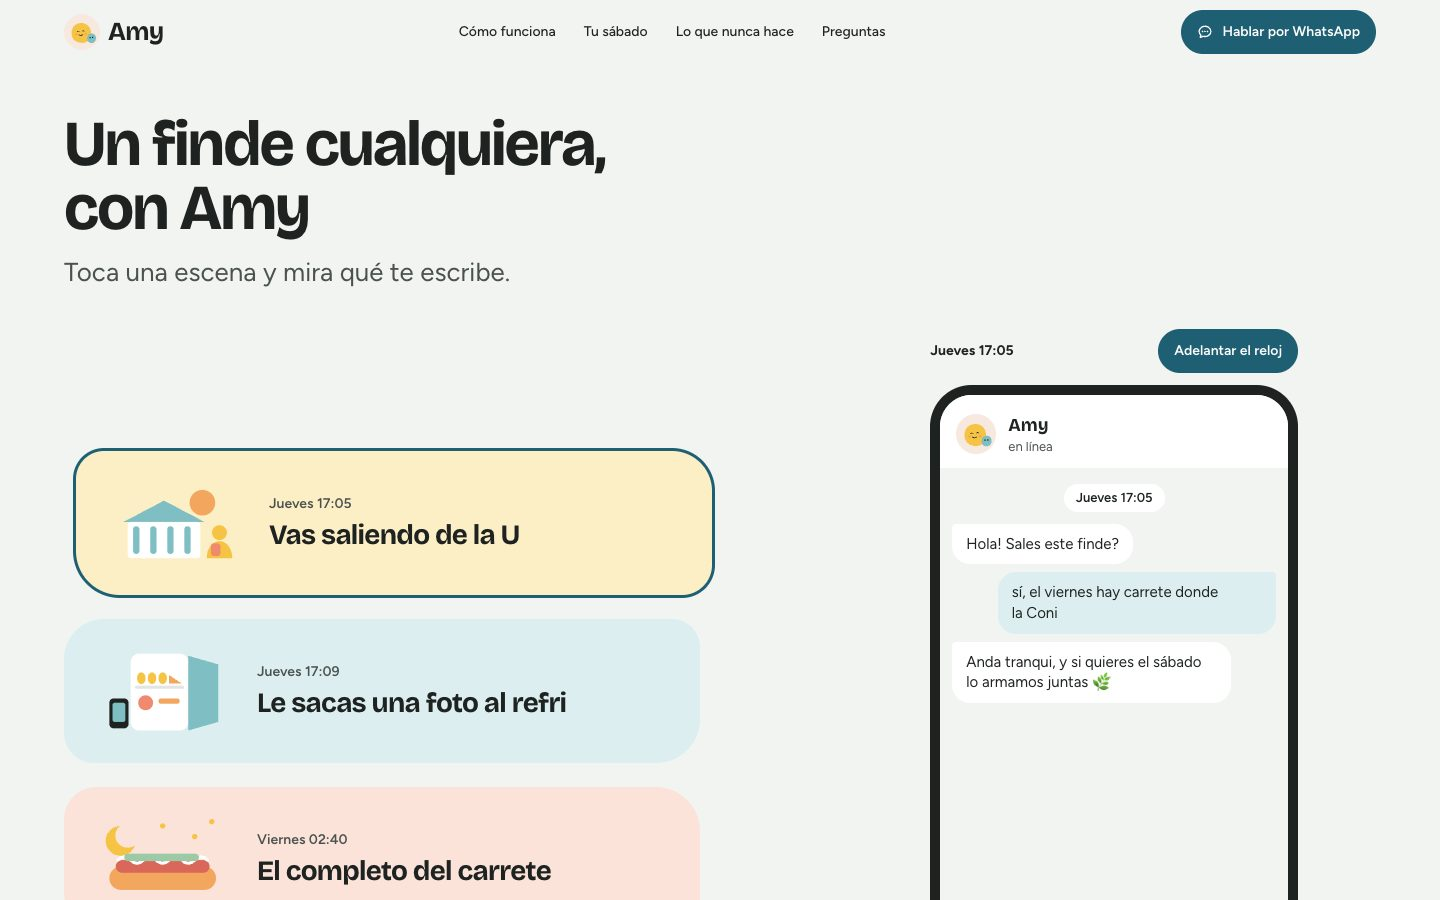
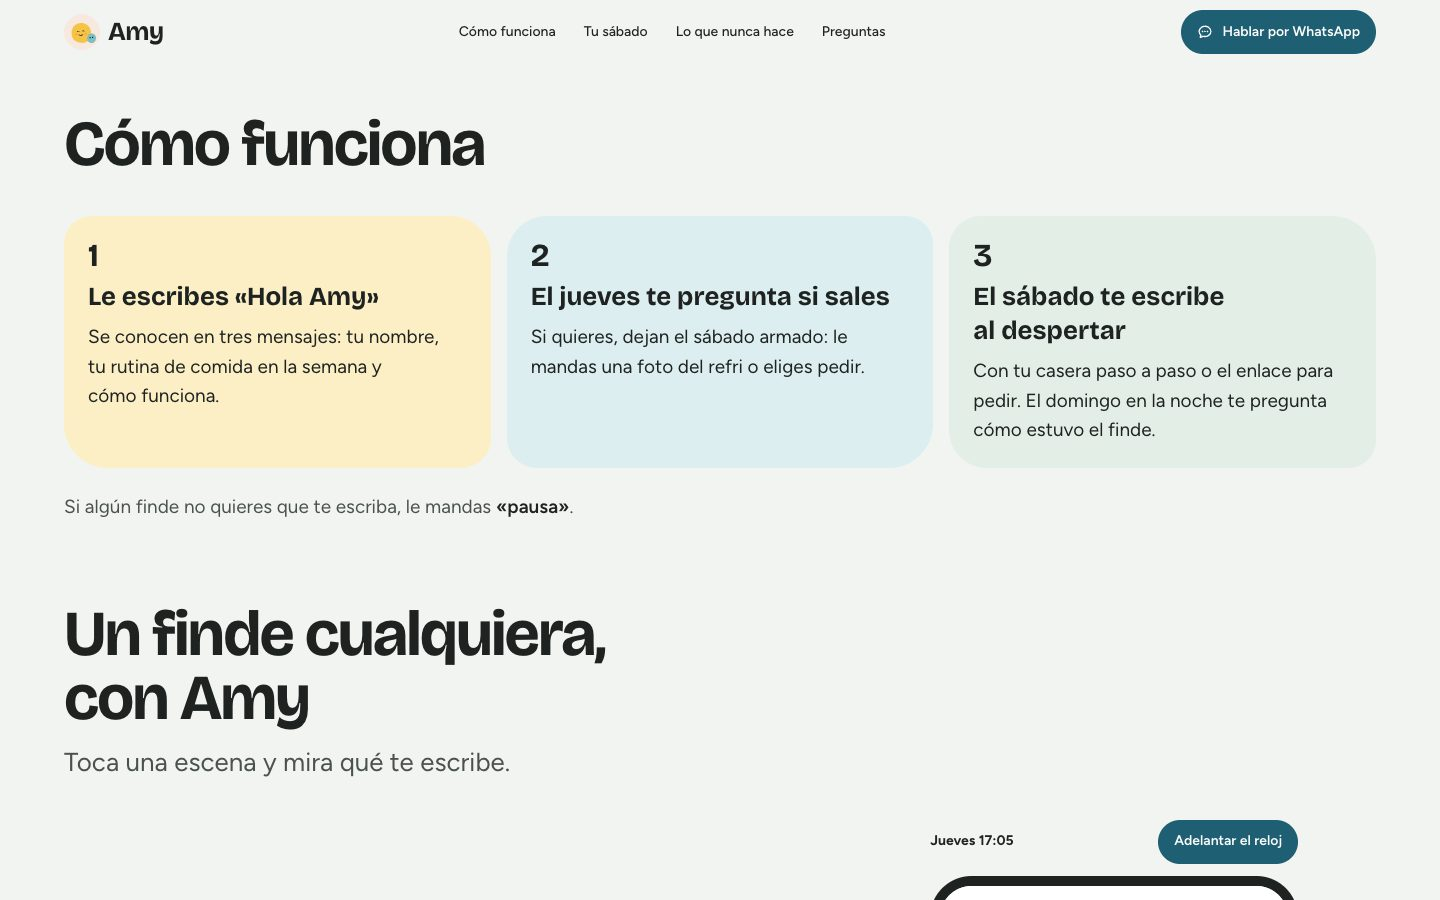
feat(landing): say exactly what Amy does today
Three-step how-it-works (Hola Amy and a three-message intro, Thursday
check-in, Saturday wake-up message plus Sunday check-in, and «pausa»).
Saturday section now shows the real choice: a 10-minute recipe from
your fridge that lands in your recipe book, or your craving via a
PedidosYa link. Drop price comparisons and the prices in the chat plan,
make Sunday's scene Amy asking how the weekend went, update the FAQ.

diff --git a/landing/src/components/TuSabado.tsx b/landing/src/components/TuSabado.tsx
@@ -1,133 +1,60 @@
-import { useState } from "react";
-import { ANTOJOS, ENVIO, OTRO_DELIVERY, RECETA, pesos } from "../lib/conversacion";
 import { useRevela } from "../lib/movimiento";
 import { AvatarAmi } from "./Avatar";
+import { DibujoEscena } from "./Escenas";
 import { Onda } from "./Onda";
 
-type Antojo = (typeof ANTOJOS)[number];
-type Linea = { turno: string; que: string; detalle: string; precio: number; antojo?: boolean };
-
-function Sabado({
-  titulo,
-  lineas,
-  destacado = false,
-  forma,
-}: {
-  titulo: string;
-  lineas: Linea[];
-  destacado?: boolean;
-  forma: string;
-}) {
-  const total = lineas.reduce((s, l) => s + l.precio, 0);
-  return (
-    <div className={`flex flex-col p-6 sm:p-8 ${forma} ${destacado ? "bg-superficie outline-[3px] outline-accion" : "bg-cielo"}`}>
-      <div className="flex items-center gap-3">
-        {destacado && <AvatarAmi className="size-10 shrink-0" />}
-        <h3 className="text-lead">{titulo}</h3>
-      </div>
-      <dl className="mt-6 flex-1 space-y-4">
-        {lineas.map((l) => (
-          <div key={l.turno} className={`rounded-[18px_24px_20px_26px] px-4 py-3 ${l.antojo ? "bg-amarillo" : destacado ? "bg-menta" : "bg-rosado"}`}>
-            <dt className="text-chico font-semibold text-tinta-suave">{l.turno}</dt>
-            <dd className="mt-0.5 flex items-baseline justify-between gap-4">
-              <span>
-                <span className="block font-semibold">{l.que}</span>
-                <span className="block text-chico">{l.detalle}</span>
-              </span>
-              <span className="font-bold tabular-nums">{pesos(l.precio)}</span>
-            </dd>
-          </div>
-        ))}
-      </dl>
-      <p className="mt-6 flex items-baseline justify-between gap-4 text-lead font-bold">
-        <span>Total</span>
-        <span className="tabular-nums">{pesos(total)}</span>
-      </p>
-    </div>
-  );
-}
+const OPCIONES = [
+  {
+    titulo: "Algo rico de tu refri",
+    texto: "Una casera de 10 minutos con lo que ya tienes. Amy te guía paso a paso y la receta queda en tu recetario, que solo crece.",
+    escena: "refri" as const,
+    fondo: "bg-menta",
+    forma: "rounded-[36px_48px_40px_52px]",
+  },
+  {
+    titulo: "Tu antojo por delivery",
+    texto: "Amy te manda el enlace directo a un local en PedidosYa. Sin culpa: tu antojo también es parte del plan.",
+    escena: "amigas" as const,
+    fondo: "bg-amarillo",
+    forma: "rounded-[48px_36px_52px_40px]",
+  },
+];
 
 /**
- * La misma comparación que hace Amy el jueves: el sábado de siempre (dos
- * delivery) contra el sábado con Amy (el mismo antojo y una casera con lo que
- * ya tienes). El antojo no se toca; lo que cambia es el almuerzo con caña.
+ * Lo que queda decidido el jueves para el sábado: una de dos, las dos valen.
+ * Y si el plan cambia, no pasa nada.
  */
 export function TuSabado() {
   const ref = useRevela<HTMLElement>();
-  const [antojoId, setAntojoId] = useState<Antojo["id"]>("sushi");
-  const antojo = ANTOJOS.find((a) => a.id === antojoId)!;
-  const faltan = RECETA.faltan.reduce((s, f) => s + f.precio, 0);
-
-  const comidaAntojo: Linea = {
-    turno: "Comida",
-    que: `Tu antojo: ${antojo.nombre.toLowerCase()}`,
-    detalle: `De ${antojo.local}, con envío`,
-    precio: antojo.precio + ENVIO,
-    antojo: true,
-  };
-  const deSiempre: Linea[] = [
-    { turno: "Almuerzo", que: "Delivery con caña", detalle: "Lo primero que aparece en la app", precio: OTRO_DELIVERY + ENVIO },
-    comidaAntojo,
-  ];
-  const conAmi: Linea[] = [
-    {
-      turno: "Almuerzo",
-      que: RECETA.nombre,
-      detalle: `${RECETA.minutos} min, con lo que ya tienes; falta ${RECETA.faltan.map((f) => f.nombre.toLowerCase()).join(" y ")}`,
-      precio: faltan,
-    },
-    comidaAntojo,
-  ];
-  const quedan = OTRO_DELIVERY + ENVIO - faltan;
-
   return (
-    <section ref={ref} id="tu-sabado" className="grano bg-menta" aria-labelledby="titulo-sabado">
+    <section ref={ref} id="tu-sabado" className="grano bg-celeste" aria-labelledby="titulo-sabado">
       <Onda volteada className="text-cielo" />
       <div className="envoltura py-20 md:py-28">
-        <div className="flex flex-col gap-8 lg:flex-row lg:items-end lg:justify-between">
-          <div>
-            <h2 id="titulo-sabado" className="revela max-w-[18ch] text-titulo">
-              El mismo sábado, sin culpa y con plata
-            </h2>
-            <p className="revela mt-5 max-w-[44ch] text-lead" style={{ ["--i" as string]: 1 }}>
-              Tu antojo no se toca. Solo cambia el almuerzo con caña.
-            </p>
-          </div>
-          <fieldset className="revela" style={{ ["--i" as string]: 2 }}>
-            <legend className="font-semibold">¿Qué se te antoja?</legend>
-            <div className="mt-3 flex flex-wrap gap-2">
-              {ANTOJOS.map((a) => (
-                <label key={a.id} className="cursor-pointer">
-                  <input
-                    type="radio"
-                    name="antojo"
-                    value={a.id}
-                    checked={antojoId === a.id}
-                    onChange={() => setAntojoId(a.id)}
-                    className="peer sr-only"
-                  />
-                  <span className="inline-flex min-h-11 items-center rounded-full bg-superficie px-5 font-medium transition-[transform,background-color,color] duration-200 ease-(--ease-salto) peer-checked:bg-tinta peer-checked:text-cielo peer-focus-visible:outline-2 peer-focus-visible:outline-offset-3 peer-focus-visible:outline-accion active:scale-95">
-                    {a.nombre}
-                  </span>
-                </label>
-              ))}
-            </div>
-          </fieldset>
-        </div>
-
-        <div className="mt-12 grid gap-5 md:grid-cols-2" aria-live="polite">
-          <div className="revela" style={{ ["--i" as string]: 1 }}>
-            <Sabado titulo="Un sábado de siempre" lineas={deSiempre} forma="rounded-[36px_48px_40px_52px]" />
-          </div>
-          <div className="revela" style={{ ["--i" as string]: 2 }}>
-            <Sabado titulo="Un sábado con Amy" lineas={conAmi} destacado forma="rounded-[48px_36px_52px_40px]" />
-          </div>
-        </div>
-
-        <p className="revela mt-10 text-center font-titulo text-titulo font-bold text-balance" style={{ ["--i" as string]: 3 }}>
-          Te quedan {pesos(quedan)} para la semana.
+        <h2 id="titulo-sabado" className="revela max-w-[18ch] text-titulo">
+          El sábado, tú eliges
+        </h2>
+        <p className="revela mt-5 max-w-[46ch] text-lead" style={{ ["--i" as string]: 1 }}>
+          Lo dejan decidido el jueves, cuando estás tranquila. El sábado con caña ya no tienes que pensar.
         </p>
-        <p className="mt-3 text-center text-chico text-tinta-suave">Precios de ejemplo.</p>
+
+        <ul className="mt-12 grid gap-5 md:grid-cols-2">
+          {OPCIONES.map((o, i) => (
+            <li key={o.titulo} className={`revela flex flex-col gap-4 bg-superficie p-6 sm:p-8 ${o.forma}`} style={{ ["--i" as string]: i + 1 }}>
+              <div className={`w-fit rounded-[24px_30px_26px_32px] px-4 py-3 ${o.fondo}`}>
+                <DibujoEscena escena={o.escena} className="h-20 w-auto" />
+              </div>
+              <h3 className="text-lead">{o.titulo}</h3>
+              <p className="max-w-[40ch]">{o.texto}</p>
+            </li>
+          ))}
+        </ul>
+
+        <div className="revela mt-10 flex items-end gap-3 md:justify-center" style={{ ["--i" as string]: 3 }}>
+          <AvatarAmi className="size-14 shrink-0" />
+          <p className="rounded-[4px_22px_22px_22px] bg-superficie px-5 py-3 text-lead">
+            Y si el plan cambia, no pasa nada. El finde también es parte de tu semana 🫶
+          </p>
+        </div>
       </div>
       <Onda className="text-rosado" />
     </section>

diff --git a/landing/src/components/ComoFunciona.tsx b/landing/src/components/ComoFunciona.tsx
@@ -1,4 +1,5 @@
 import { useEffect, useRef, useState } from "react";
+import { NOMBRE } from "../config";
 import { MOMENTOS } from "../lib/conversacion";
 import { centrar, hayMovimiento } from "../lib/movimiento";
 import { DibujoEscena } from "./Escenas";
@@ -18,8 +19,23 @@ const FORMAS = [
   "rounded-[32px_44px_28px_38px]",
 ];
 
+const PASOS = [
+  {
+    titulo: `Le escribes «Hola ${NOMBRE}»`,
+    texto: "Se conocen en tres mensajes: tu nombre, tu rutina de comida en la semana y cómo funciona.",
+  },
+  {
+    titulo: "El jueves te pregunta si sales",
+    texto: "Si quieres, dejan el sábado armado: le mandas una foto del refri o eliges pedir.",
+  },
+  {
+    titulo: "El sábado te escribe al despertar",
+    texto: "Con tu casera paso a paso o el enlace para pedir. El domingo en la noche te pregunta cómo estuvo el finde.",
+  },
+];
+
 /**
- * Un finde cualquiera, en escenas. Cada escena es un botón que pone el chat en
+ * Tres pasos y, debajo, un finde cualquiera en escenas. Cada escena es un botón que pone el chat en
  * ese momento. En escritorio el teléfono queda fijo y la escena del centro de
  * la pantalla manda; en celular las escenas son una fila que se desliza.
  */
@@ -64,8 +80,24 @@ export function ComoFunciona() {
     <section id="como-funciona" className="relative" aria-labelledby="titulo-como">
       <div className="envoltura pt-20 md:pt-28">
         <h2 id="titulo-como" className="max-w-[16ch] text-titulo">
-          Un finde cualquiera, con Amy
+          Cómo funciona
         </h2>
+        <ol className="mt-10 grid gap-4 md:grid-cols-3">
+          {PASOS.map((p, i) => (
+            <li key={p.titulo} className={`flex flex-col gap-2 p-6 ${["bg-amarillo", "bg-celeste", "bg-menta"][i]} ${FORMAS[i]}`}>
+              <span className="font-titulo text-[2rem] leading-none font-bold" aria-hidden="true">
+                {i + 1}
+              </span>
+              <h3 className="text-lead">{p.titulo}</h3>
+              <p>{p.texto}</p>
+            </li>
+          ))}
+        </ol>
+        <p className="mt-6 text-tinta-suave">
+          Si algún finde no quieres que te escriba, le mandas <strong className="font-semibold text-tinta">«pausa»</strong>.
+        </p>
+
+        <h3 className="mt-20 max-w-[18ch] text-titulo">Un finde cualquiera, con {NOMBRE}</h3>
         <p className="mt-4 max-w-[40ch] text-lead text-tinta-suave">Toca una escena y mira qué te escribe.</p>
       </div>
 

diff --git a/landing/src/components/Telefono.tsx b/landing/src/components/Telefono.tsx
@@ -2,10 +2,7 @@ import { LazyMotion, MotionConfig, domAnimation, m as motion } from "motion/reac
 import { useEffect, useRef } from "react";
 import { NOMBRE } from "../config";
 import { AvatarAmi } from "./Avatar";
-import { ANTOJOS, ENVIO, RECETA, pesos, type Mensaje, type Momento } from "../lib/conversacion";
-
-const pizza = ANTOJOS[0];
-const faltan = RECETA.faltan.reduce((s, f) => s + f.precio, 0);
+import { RECETA, type Mensaje, type Momento } from "../lib/conversacion";
 
 function Refri() {
   return (
@@ -34,18 +31,12 @@ function Plan() {
     <div className="space-y-2">
       <p className="font-titulo font-bold">Tu sábado, listo</p>
       <div className="rounded-[14px_18px_14px_18px] bg-menta px-3 py-2">
-        <p className="text-[0.8125rem] font-semibold">Almuerzo, casero</p>
+        <p className="text-[0.8125rem] font-semibold">Algo rico de tu refri</p>
         <p>
-          {RECETA.nombre}, {RECETA.minutos} min · te falta tomate y cilantro, {pesos(faltan)}
+          {RECETA.nombre}, {RECETA.minutos} min, con lo que ya tienes
         </p>
       </div>
-      <div className="rounded-[18px_14px_18px_14px] bg-amarillo px-3 py-2">
-        <p className="text-[0.8125rem] font-semibold">Comida, tu antojo</p>
-        <p>
-          {pizza.nombre} de {pizza.local}, {pesos(pizza.precio + ENVIO)}
-        </p>
-      </div>
-      <p className="text-[0.8125rem] text-tinta-suave">Precios de ejemplo.</p>
+      <p className="text-[0.8125rem] text-tinta-suave">Si el sábado prefieres pedir, te mando el enlace</p>
     </div>
   );
 }

diff --git a/landing/src/lib/conversacion.ts b/landing/src/lib/conversacion.ts
@@ -1,6 +1,6 @@
 /**
- * La conversación de ejemplo del mockup. Todo es inventado: el refri, los
- * locales y los precios. Nunca calorías ni nada sobre el cuerpo.
+ * La conversación de ejemplo del mockup, fiel a lo que Amy hace hoy. Todo es
+ * inventado: el refri y los locales. Nunca calorías, precios ni nada sobre el cuerpo.
  */
 
 export type Mensaje =
@@ -58,7 +58,7 @@ export const MOMENTOS: Momento[] = [
     titulo: "El completo del carrete",
     escena: "carrete",
     fondo: "rosado",
-    mensajes: [{ de: "nota", texto: "Amy no te escribe de noche. Es tu carrete." }],
+    mensajes: [{ de: "nota", texto: "El viernes Amy no te escribe. Es tu carrete." }],
   },
   {
     id: "sabado",
@@ -96,12 +96,13 @@ export const MOMENTOS: Momento[] = [
     id: "domingo",
     dia: "Domingo",
     hora: "20:00",
-    titulo: "La culpa del domingo",
+    titulo: "Amy pregunta cómo estuvo el finde",
     escena: "domingo",
     fondo: "celeste",
     mensajes: [
-      { de: "yo", texto: "mañana parto de nuevo" },
-      { de: "ella", texto: "Uf, suena a que te quedaste con una sensación pesada. Gracias por contármelo 🫶" },
+      { de: "ella", texto: "Hola! Cómo estuvo el finde?" },
+      { de: "yo", texto: "bien! las quesadillas quedaron ricas" },
+      { de: "ella", texto: "Qué bueno! Ya quedaron en tu recetario 🫶" },
     ],
   },
 ];

diff --git a/landing/src/components/Preguntas.tsx b/landing/src/components/Preguntas.tsx
@@ -1,9 +1,14 @@
 import { NOMBRE } from "../config";
 
 const PREGUNTAS = [
-  { p: "¿Es una dieta?", r: "No. Trabaja con la pauta que ya te dio tu nutricionista." },
-  { p: "¿Y los antojos?", r: "Entran en el plan desde el jueves. Amy no los cuenta ni te dice cuántos te quedan: si quieres otro, el plan se acomoda." },
-  { p: "¿Cuántos mensajes me manda?", r: "Pocos: el jueves en la tarde y el sábado al despertar." },
+  {
+    p: "¿Cómo empiezo?",
+    r: `Le escribes «Hola ${NOMBRE}» con el botón. Se conocen en tres mensajes: tu nombre, tu rutina de comida en la semana y cómo funciona.`,
+  },
+  { p: "¿Es una dieta?", r: "No. Trabaja con la pauta que ya te dio tu nutricionista. Sin rachas, sin calorías, sin contar." },
+  { p: "¿Cuántos mensajes me manda?", r: "Pocos: el jueves, el sábado cuando despiertas y el domingo en la noche." },
+  { p: "¿Y si un finde no quiero que me escriba?", r: "Le mandas «pausa» y ese finde no te escribe." },
+  { p: "¿Y los antojos?", r: `Entran en el plan desde el jueves. ${NOMBRE} no los cuenta ni te dice cuántos te quedan: si quieres otro, el plan se acomoda.` },
   { p: "¿Reemplaza a mi nutricionista?", r: `No. Si algo te preocupa, ${NOMBRE} te va a sugerir hablarlo con tu nutricionista o con otro profesional.` },
 ];
 

diff --git a/landing/src/components/Cierre.tsx b/landing/src/components/Cierre.tsx
@@ -35,7 +35,7 @@ export function Cierre() {
             Disfruta el finde. El lunes, sigues.
           </h2>
           <p className="mt-6 max-w-[44ch] text-lead">
-            Escríbele hoy. El jueves te pregunta si sales y arman el sábado con tus antojos incluidos.
+            Escríbele «Hola {NOMBRE}». El jueves te pregunta si sales y, si quieres, dejan el sábado listo.
           </p>
           <a
             href={WHATSAPP_URL}
@@ -77,7 +77,7 @@ export function Pie() {
             <a href="#preguntas" className="enlace">Preguntas</a>
           </li>
         </ul>
-        <p className="text-tinta-suave sm:text-right">Conversaciones, locales y precios son de ejemplo. 2026</p>
+        <p className="text-tinta-suave sm:text-right">Las conversaciones son de ejemplo. 2026</p>
       </div>
     </footer>
   );

diff --git a/landing/src/components/Portada.tsx b/landing/src/components/Portada.tsx
@@ -65,8 +65,8 @@ export function Portada() {
             Darte un gusto no es empezar de cero.
           </h1>
           <p className="entra mt-6 max-w-[40ch] text-lead" style={{ ["--i" as string]: 1 }}>
-            {NOMBRE} es tu compañera en WhatsApp para el fin de semana. Te ayuda a planear tus antojos y comidas, para
-            que el lunes sigas con tu rutina, sin culpa.
+            {NOMBRE} es una compañera en WhatsApp, con tono de amiga, que te acompaña con la comida del finde. El
+            jueves dejan el sábado decidido, para que el lunes sigas con tu rutina, sin culpa.
           </p>
           <div className="entra mt-9 flex flex-wrap items-center gap-x-7 gap-y-4" style={{ ["--i" as string]: 2 }}>
             <BotonWhatsApp />

diff --git a/landing/README.md b/landing/README.md
@@ -18,7 +18,7 @@ Todo está en [`src/config.ts`](src/config.ts):
 - `WHATSAPP_NUMERO`: el número de Amy, hoy el del sandbox de WhatsApp de Kapso (`56920403095`). Solo responde a celulares activados en ese sandbox. Todos los botones «Hablar por WhatsApp» usan `WHATSAPP_URL`.
 - `WHATSAPP_TEXTO`: el mensaje que queda escrito al abrir el chat («Hola Amy»).
 
-Las conversaciones, los locales y los precios de ejemplo están en [`src/lib/conversacion.ts`](src/lib/conversacion.ts). Son inventados y la página los marca como ejemplo.
+Las conversaciones de ejemplo están en [`src/lib/conversacion.ts`](src/lib/conversacion.ts). Son inventadas, siguen lo que Amy hace hoy y la página las marca como ejemplo.
 
 ## Correr
 
